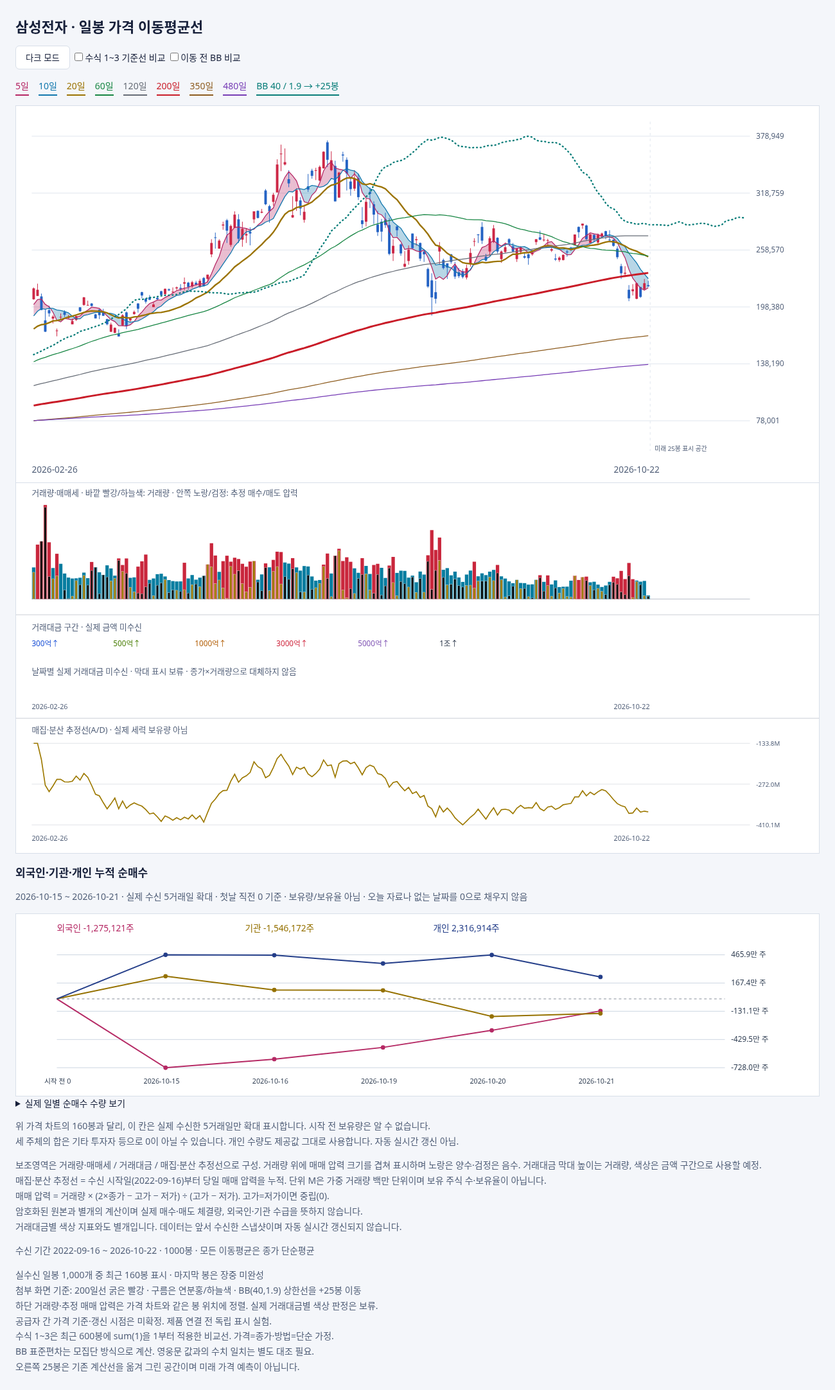
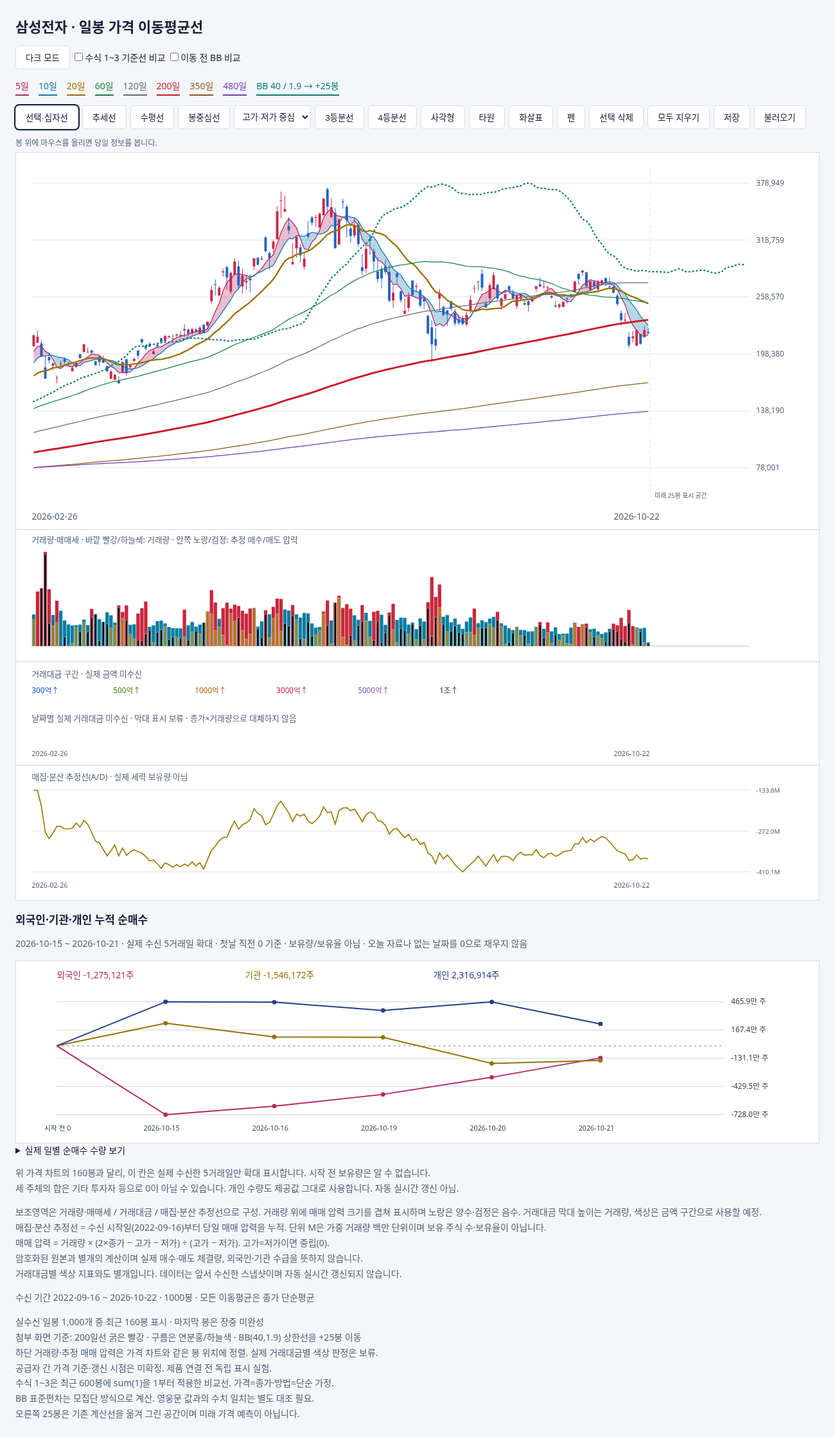
feat(chart): 실험 차트 십자선과 그리기 도구 추가

diff --git a/docs/design/desktop-chart-proof/2026-10-22/chart-tools.js b/docs/design/desktop-chart-proof/2026-10-22/chart-tools.js
@@ -1,0 +1,64 @@
+// Drawing anchors use trading dates and prices, never screenshot pixels.
+const toolSvg=document.getElementById('chart');
+const ns='http://www.w3.org/2000/svg';
+const drawingKey='stockbook-chart-proof:005930:drawings:v1';
+const drawingTypes=['trend','horizontal','midpoint','thirds','quarters','rectangle','ellipse','arrow','pen'];
+let drawingMode='view',drawings=[],pendingAnchor=null,selectedDrawing=null,nextDrawingId=1,penStroke=null;
+const toolMessage=document.getElementById('toolMessage');
+const candleTip=document.getElementById('candleTip');
+function svgNode(tag,attrs={},text){const n=document.createElementNS(ns,tag);for(const [k,v] of Object.entries(attrs))n.setAttribute(k,String(v));if(text!==undefined)n.textContent=text;return n;}
+function pointInSvg(event){return new DOMPoint(event.clientX,event.clientY).matrixTransform(toolSvg.getScreenCTM().inverse());}
+function toolModel(){return window.chartModel;}
+function anchorX(anchor,m){const i=m.rows.findIndex(r=>r.date===anchor.date);return i<0?null:m.x(i+anchor.offset);}
+function anchorFromPoint(p,m){const i=Math.max(0,Math.min(m.rows.length+24,Math.round((p.x-25)/m.step-.5))),actual=Math.min(i,m.rows.length-1);return {date:m.rows[actual].date,offset:i-actual,price:m.priceForY(p.y)};}
+function setDrawingMode(mode){drawingMode=mode;pendingAnchor=null;for(const b of document.querySelectorAll('[data-chart-tool]'))b.setAttribute('aria-pressed',String(b.dataset.chartTool===mode));toolSvg.style.cursor='crosshair';toolMessage.textContent={view:'봉 위에 마우스를 올리면 당일 정보를 봅니다.',trend:'추세선: 시작점과 끝점을 차례로 누르세요.',horizontal:'수평선: 원하는 가격 위치를 누르세요.',midpoint:'봉중심선: 봉을 누르면 선택한 기준의 중앙 가격에 선을 그립니다.',thirds:'3등분선: 나눌 가격 범위의 두 끝을 누르세요.',quarters:'4등분선: 나눌 가격 범위의 두 끝을 누르세요.',rectangle:'사각형: 두 모서리를 차례로 누르세요.',ellipse:'타원: 범위의 두 모서리를 차례로 누르세요.',arrow:'화살표: 시작점과 끝점을 차례로 누르세요.',pen:'펜: 마우스를 누른 채 그리세요.'}[mode];renderDrawings();}
+function drawOne(layer,d,preview=false){const m=toolModel(),a=d.points[0],b=d.points[1],xa=anchorX(a,m),xb=b?anchorX(b,m):null;if(xa===null||b&&xb===null)return;const light=document.body.classList.contains('light'),color=selectedDrawing===d.id?(light?'#975000':'#ffe275'):(light?'#965023':'#f5b16e');
+ const group=svgNode('g',{'data-drawing-id':d.id,class:preview?'drawing-preview':'drawing'});if(preview)group.setAttribute('pointer-events','none');const levels=[];
+ if(['rectangle','ellipse','pen','arrow'].includes(d.type)){
+ const attrs={fill:'none',stroke:color,'stroke-width':2};let visible;
+ if(d.type==='pen'){const points=d.points.map(p=>[anchorX(p,m),m.y(p.price)]);if(points.some(p=>p[0]===null))return;visible=svgNode('polyline',{...attrs,points:points.map(p=>p.join(',')).join(' ')});}
+ else if(b){const ya=m.y(a.price),yb=m.y(b.price),left=Math.min(xa,xb),top=Math.min(ya,yb),width=Math.max(1,Math.abs(xb-xa)),height=Math.max(1,Math.abs(yb-ya));
+ if(d.type==='rectangle')visible=svgNode('rect',{...attrs,x:left,y:top,width,height});
+ if(d.type==='ellipse')visible=svgNode('ellipse',{...attrs,cx:left+width/2,cy:top+height/2,rx:width/2,ry:height/2});
+ if(d.type==='arrow'){visible=svgNode('line',{...attrs,x1:xa,y1:ya,x2:xb,y2:yb});const angle=Math.atan2(yb-ya,xb-xa),r=11;group.append(svgNode('path',{d:`M${xb-r*Math.cos(angle-.45)},${yb-r*Math.sin(angle-.45)} L${xb},${yb} L${xb-r*Math.cos(angle+.45)},${yb-r*Math.sin(angle+.45)}`,...attrs,'pointer-events':'none'}));}}
+ if(visible){group.append(visible);if(!preview){const hit=visible.cloneNode();hit.setAttribute('stroke','transparent');hit.setAttribute('stroke-width','12');hit.setAttribute('pointer-events','stroke');hit.setAttribute('data-drawing-id',d.id);hit.classList.add('drawing-hit');group.append(hit);}}
+ layer.append(group);return;
+ }
+ if(d.type==='trend'&&b)levels.push([xa,m.y(a.price),xb,m.y(b.price),'']);
+ else if(['horizontal','midpoint'].includes(d.type))levels.push([25,m.y(a.price),1165,m.y(a.price),(d.type==='midpoint'?`${a.date} ${d.centerKind==='body'?'몸통':'고저'} 중심 · `:'')+Math.round(a.price).toLocaleString()]);
+ else if(b){const parts=d.type==='thirds'?3:4;for(let i=0;i<=parts;i++){const price=a.price+(b.price-a.price)*i/parts;levels.push([25,m.y(price),1165,m.y(price),`${i}/${parts} · ${Math.round(price).toLocaleString()}`]);}}
+ for(const [x1,y1,x2,y2,label] of levels){group.append(svgNode('line',{x1,y1,x2,y2,stroke:color,'stroke-width':selectedDrawing===d.id?2.5:1.5,'stroke-dasharray':preview?'4 4':'none','pointer-events':'none'}));if(!preview)group.append(svgNode('line',{x1,y1,x2,y2,stroke:'transparent','stroke-width':12,'pointer-events':'stroke','data-drawing-id':d.id,class:'drawing-hit'}));if(label)group.append(svgNode('text',{x:35,y:y1-5,fill:color,'font-size':11,'pointer-events':'none'},label));}
+ if(selectedDrawing===d.id)for(const p of d.points)group.append(svgNode('circle',{cx:anchorX(p,m),cy:m.y(p.price),r:4,fill:color,'pointer-events':'none'}));
+ layer.append(group);
+}
+function renderDrawings(previewAnchor){if(!toolModel())return;toolSvg.querySelector('.annotation-layer')?.remove();const layer=svgNode('g',{class:'annotation-layer'});for(const d of drawings)drawOne(layer,d);if(penStroke&&penStroke.length>1)drawOne(layer,{id:-2,type:'pen',points:penStroke},true);if(pendingAnchor&&previewAnchor)drawOne(layer,{id:-1,type:drawingMode,points:[pendingAnchor,previewAnchor]},true);toolSvg.append(layer);}
+function hideCrosshair(){for(const svg of [toolSvg,document.getElementById('pressureChart'),document.getElementById('investorChart')])svg.querySelector('.cursor-layer')?.remove();candleTip.hidden=true;}
+function cursorLine(svg,x,bottom,color){const group=svgNode('g',{class:'cursor-layer','pointer-events':'none'});group.append(svgNode('line',{x1:x,x2:x,y1:0,y2:bottom,stroke:color,'stroke-width':1,'stroke-dasharray':'3 4'}));svg.append(group);return group;}
+function showCrosshair(p,event){hideCrosshair();const m=toolModel();if(!m||p.x<25||p.x>1165||p.y<30||p.y>520)return;const index=Math.max(0,Math.min(m.rows.length+24,Math.round((p.x-25)/m.step-.5))),xx=m.x(index),price=m.priceForY(p.y),color=document.body.classList.contains('light')?'#5b6270':'#c3cad6',label=index<m.rows.length?m.rows[index].date:`미래 +${index-m.rows.length+1}봉`;
+ const group=cursorLine(toolSvg,xx,560,color);group.append(svgNode('line',{x1:25,x2:1165,y1:p.y,y2:p.y,stroke:color,'stroke-dasharray':'3 4'}),svgNode('rect',{x:1170,y:p.y-11,width:108,height:22,fill:'var(--text)'}),svgNode('text',{x:1176,y:p.y+4,fill:'var(--bg)','font-size':12},Math.round(price).toLocaleString()),svgNode('rect',{x:Math.min(1050,Math.max(25,xx-50)),y:563,width:112,height:23,fill:'var(--text)'}),svgNode('text',{x:Math.min(1056,Math.max(31,xx-44)),y:579,fill:'var(--bg)','font-size':11},label));
+ cursorLine(document.getElementById('pressureChart'),xx,590,color);
+ if(index>=m.rows.length){candleTip.hidden=true;return;}
+ const row=m.rows[index],global=m.offset+index,previous=m.all[global-1]?.close,change=previous?((row.close/previous-1)*100):null;
+ const lines=[`${row.date} · 삼성전자`,...['open','high','low','close'].map((k,i)=>`${['시가','고가','저가','종가'][i]}  ${row[k].toLocaleString()}원`),`전일 종가 대비  ${change===null?'자료 없음':(change>=0?'+':'')+change.toFixed(2)+'%'}`,`거래량  ${row.volume.toLocaleString()}주`,'거래대금  자료 미수신',...m.averages.map((a,i)=>`${m.periods[i]}일선  ${a[index]===null?'자료 없음':a[index].toLocaleString('ko-KR',{maximumFractionDigits:2})}`)];
+ if(global===m.all.length-1)lines.push('장중 미완성 봉 · 저장된 스냅샷');candleTip.textContent=lines.join('\n');candleTip.hidden=false;
+ candleTip.style.left=Math.max(8,Math.min(window.innerWidth-candleTip.offsetWidth-8,event.clientX+18))+'px';candleTip.style.top=Math.max(8,Math.min(window.innerHeight-candleTip.offsetHeight-8,event.clientY+18))+'px';
+ const dates=window.investorEvidence?.dates||[],di=dates.indexOf(row.date);if(di>=0)cursorLine(document.getElementById('investorChart'),65+(di+1)*1040/(dates.length+1),255,color);
+}
+function restoreChartInteraction(){hideCrosshair();renderDrawings();}
+toolSvg.addEventListener('pointermove',event=>{const m=toolModel();if(!m)return;const p=pointInSvg(event);if(penStroke){if(p.x>=25&&p.x<=1165&&p.y>=30&&p.y<=520&&penStroke.length<500){penStroke.push(anchorFromPoint(p,m));renderDrawings();}return;}showCrosshair(p,event);if(pendingAnchor&&p.x>=25&&p.x<=1165&&p.y>=30&&p.y<=520){renderDrawings(anchorFromPoint(p,m));}});
+toolSvg.addEventListener('pointerleave',()=>{hideCrosshair();renderDrawings();});
+toolSvg.addEventListener('click',event=>{const m=toolModel();if(!m)return;const p=pointInSvg(event);if(p.x<25||p.x>1165||p.y<30||p.y>520)return;if(drawingMode==='view'){selectedDrawing=Number(event.target.closest('[data-drawing-id]')?.dataset.drawingId)||null;renderDrawings();return;}
+ if(drawingMode==='pen')return;let anchor=anchorFromPoint(p,m);if(drawingMode==='midpoint'){if(anchor.offset){toolMessage.textContent='실제 봉을 선택하세요.';return;}const row=m.rows.find(r=>r.date===anchor.date),kind=document.getElementById('centerKind').value;anchor={...anchor,price:kind==='body'?(row.open+row.close)/2:(row.high+row.low)/2};}if(!['horizontal','midpoint'].includes(drawingMode)&&!pendingAnchor){pendingAnchor=anchor;toolMessage.textContent='두 번째 점을 누르세요. 취소하려면 Esc.';return;}
+ if(drawings.length>=200){toolMessage.textContent='선은 200개까지 저장할 수 있습니다.';pendingAnchor=null;return;}
+ const points=['horizontal','midpoint'].includes(drawingMode)?[anchor]:[pendingAnchor,anchor];if(points.length===2&&(drawingMode==='trend'?points[0].date===points[1].date&&points[0].offset===points[1].offset:Math.abs(points[0].price-points[1].price)<.01)){toolMessage.textContent='서로 다른 두 위치를 선택하세요.';return;}
+ drawings.push({id:nextDrawingId++,type:drawingMode,points,...(drawingMode==='midpoint'?{centerKind:document.getElementById('centerKind').value}:{})});selectedDrawing=drawings.at(-1).id;setDrawingMode('view');toolMessage.textContent='선을 추가했습니다. 선택해 삭제하거나 저장할 수 있습니다.';});
+for(const button of document.querySelectorAll('[data-chart-tool]'))button.onclick=()=>setDrawingMode(button.dataset.chartTool);
+document.getElementById('drawingDelete').onclick=()=>{if(selectedDrawing===null){toolMessage.textContent='삭제할 선을 먼저 선택하세요.';return;}drawings=drawings.filter(d=>d.id!==selectedDrawing);selectedDrawing=null;renderDrawings();};
+document.getElementById('drawingClear').onclick=()=>{if(!drawings.length)return;if(!window.confirm('그린 선을 모두 지울까요? 저장된 선은 저장 버튼을 누르기 전까지 유지됩니다.'))return;drawings=[];selectedDrawing=null;pendingAnchor=null;renderDrawings();};
+document.getElementById('drawingSave').onclick=()=>{try{localStorage.setItem(drawingKey,JSON.stringify({version:1,symbol:'005930',drawings}));toolMessage.textContent='이 브라우저에 저장했습니다.';}catch{toolMessage.textContent='저장하지 못했습니다. 브라우저 저장 공간을 확인하세요.';}};
+document.getElementById('drawingLoad').onclick=()=>{try{const raw=localStorage.getItem(drawingKey);if(!raw){toolMessage.textContent='저장된 선이 없습니다.';return;}const saved=JSON.parse(raw);if(saved.version!==1||saved.symbol!=='005930'||!Array.isArray(saved.drawings)||saved.drawings.length>200)throw Error();const candidate=saved.drawings.map((d,i)=>{if(!drawingTypes.includes(d.type)||!Array.isArray(d.points)||(d.type==='pen'?(d.points.length<2||d.points.length>500):d.points.length!==(['horizontal','midpoint'].includes(d.type)?1:2)))throw Error();const points=d.points.map(a=>{if(!a||!toolModel().rows.some(r=>r.date===a.date)||!Number.isInteger(a.offset)||a.offset<0||a.offset>25||typeof a.price!=='number'||!Number.isFinite(a.price)||a.price<=0)throw Error();return {date:a.date,offset:a.offset,price:a.price};});if(d.type==='midpoint'&&!['range','body'].includes(d.centerKind))throw Error();return {id:i+1,type:d.type,points,...(d.type==='midpoint'?{centerKind:d.centerKind}:{})};});drawings=candidate;nextDrawingId=drawings.length+1;selectedDrawing=null;setDrawingMode('view');toolMessage.textContent='저장한 선을 불러왔습니다.';}catch{toolMessage.textContent='저장 자료를 읽지 못했습니다. 현재 선은 유지합니다.';}};
+document.addEventListener('keydown',e=>{if(e.key==='Escape'){penStroke=null;setDrawingMode('view');hideCrosshair();}});
+toolSvg.addEventListener('pointerdown',event=>{if(drawingMode!=='pen'||event.button!==0||!toolModel()||drawings.length>=200)return;const p=pointInSvg(event);if(p.x<25||p.x>1165||p.y<30||p.y>520)return;penStroke=[anchorFromPoint(p,toolModel())];hideCrosshair();toolSvg.setPointerCapture(event.pointerId);event.preventDefault();});
+ toolSvg.addEventListener('pointerup',event=>{if(!penStroke)return;const points=penStroke;penStroke=null;if(points.length>1){drawings.push({id:nextDrawingId++,type:'pen',points});selectedDrawing=drawings.at(-1).id;}if(toolSvg.hasPointerCapture(event.pointerId))toolSvg.releasePointerCapture(event.pointerId);setDrawingMode('view');});
+ toolSvg.addEventListener('pointercancel',()=>{penStroke=null;setDrawingMode('view');});
+ window.addEventListener('resize',hideCrosshair);window.addEventListener('scroll',hideCrosshair,{passive:true});setDrawingMode('view');

diff --git a/docs/design/desktop-chart-proof/2026-10-22/styled-chart.html b/docs/design/desktop-chart-proof/2026-10-22/styled-chart.html
@@ -1,3 +1,3 @@
 <!doctype html><html lang="ko"><meta charset="utf-8"><title>일봉 지표 표시 실험</title><style>
-:root{color-scheme:dark;--bg:#10141d;--panel:#161d29;--text:#e8edf5;--muted:#a4adbd;--border:#303a4b}body.light{color-scheme:light;--bg:#f4f6fa;--panel:#fff;--text:#17203a;--muted:#526079;--border:#d8dfe9}body{background:var(--bg);color:var(--text);font:14px system-ui;margin:24px}h1{font-size:22px}button{padding:8px 15px;background:var(--panel);color:var(--text);border:1px solid var(--border);border-radius:6px;cursor:pointer}svg{display:block;width:100%;box-sizing:border-box;background:var(--panel);border:1px solid var(--border)}#pressureChart{border-top:0}#legend{display:flex;flex-wrap:wrap;gap:15px;margin:15px 0}.note{color:var(--muted);line-height:1.7}#legend span{border-bottom:2px solid;padding-bottom:4px}table{width:100%;border-collapse:collapse;font-variant-numeric:tabular-nums}td,th{padding:8px;border-bottom:1px solid var(--border);text-align:right}td:first-child,th:first-child{text-align:left}h2{font-size:17px;margin:16px 0 8px}</style>
-<h1>삼성전자 · 일봉 가격 이동평균선</h1><button id="theme">라이트 모드</button> <label><input type="checkbox" id="refs">수식 1~3 기준선 비교</label> <label><input type="checkbox" id="original">이동 전 BB 비교</label><div id="legend"></div><svg id="chart" viewBox="0 0 1280 600" aria-label="삼성전자 일봉과 가격 이동평균선"></svg><svg id="pressureChart" viewBox="0 0 1280 590" aria-label="거래량과 OHLCV 기반 매매 압력 추정"></svg><section id="investorPanel"><h2>외국인·기관·개인 누적 순매수</h2><p id="investorInfo" class="note"></p><svg id="investorChart" viewBox="0 0 1280 290" aria-label="실제 투자자별 누적 순매수 5거래일 확대"></svg><details><summary>실제 일별 순매수 수량 보기</summary><table id="investorTable"></table></details><p class="note">위 가격 차트의 160봉과 달리, 이 칸은 실제 수신한 5거래일만 확대 표시합니다. 시작 전 보유량은 알 수 없습니다.<br>세 주체의 합은 기타 투자자 등으로 0이 아닐 수 있습니다. 개인 수량도 제공값 그대로 사용합니다. 자동 실시간 갱신 아님.</p></section><p class="note">보조영역은 거래량·매매세 / 거래대금 / 매집·분산 추정선으로 구성. 거래량 위에 매매 압력 크기를 겹쳐 표시하며 노랑은 양수·검정은 음수. 거래대금 막대 높이는 거래량, 색상은 금액 구간으로 사용할 예정.<br>매집·분산 추정선 = 수신 시작일(2022-09-16)부터 당일 매매 압력을 누적. 단위 M은 가중 거래량 백만 단위이며 보유 주식 수·보유율이 아닙니다.<br>매매 압력 = 거래량 × (2×종가 − 고가 − 저가) ÷ (고가 − 저가). 고가=저가이면 중립(0).<br>암호화된 원본과 별개의 계산이며 실제 매수·매도 체결량, 외국인·기관 수급을 뜻하지 않습니다.<br>거래대금별 색상 지표와도 별개입니다. 데이터는 앞서 수신한 스냅샷이며 자동 실시간 갱신되지 않습니다.</p><p id="period" class="note"></p><p class="note">실수신 일봉 1,000개 중 최근 160봉 표시 · 마지막 봉은 장중 미완성<br>첨부 화면 기준: 200일선 굵은 빨강 · 구름은 연분홍/하늘색 · BB(40,1.9) 상한선을 +25봉 이동<br>하단 거래량·추정 매매 압력은 가격 차트와 같은 봉 위치에 정렬. 실제 거래대금별 색상 판정은 보류.<br>공급자 간 가격 기준·갱신 시점은 미확정. 제품 연결 전 독립 표시 실험.<br>수식 1~3은 최근 600봉에 sum(1)을 1부터 적용한 비교선. 가격=종가·방법=단순 가정.<br>BB 표준편차는 모집단 방식으로 계산. 영웅문 값과의 수치 일치는 별도 대조 필요.<br>오른쪽 25봉은 기존 계산선을 옮겨 그린 공간이며 미래 가격 예측이 아닙니다.</p><script src="investors.js"></script><script src="investor-panel.js"></script><script src="pressure.js"></script><script src="styled-chart.js"></script></html>
+:root{color-scheme:dark;--bg:#10141d;--panel:#161d29;--text:#e8edf5;--muted:#a4adbd;--border:#303a4b}body.light{color-scheme:light;--bg:#f4f6fa;--panel:#fff;--text:#17203a;--muted:#526079;--border:#d8dfe9}body{background:var(--bg);color:var(--text);font:14px system-ui;margin:24px}h1{font-size:22px}button{padding:8px 15px;background:var(--panel);color:var(--text);border:1px solid var(--border);border-radius:6px;cursor:pointer}svg{display:block;width:100%;box-sizing:border-box;background:var(--panel);border:1px solid var(--border)}#pressureChart{border-top:0}#legend{display:flex;flex-wrap:wrap;gap:15px;margin:15px 0}.note{color:var(--muted);line-height:1.7}#legend span{border-bottom:2px solid;padding-bottom:4px}table{width:100%;border-collapse:collapse;font-variant-numeric:tabular-nums}td,th{padding:8px;border-bottom:1px solid var(--border);text-align:right}td:first-child,th:first-child{text-align:left}h2{font-size:17px;margin:16px 0 8px}#chart{touch-action:none}.chart-toolbar{display:flex;flex-wrap:wrap;gap:6px;margin:12px 0}.chart-toolbar select{background:var(--panel);color:var(--text);border:1px solid var(--border);border-radius:6px;padding:8px}.chart-toolbar button[aria-pressed="true"]{outline:2px solid var(--text)}.chart-tip{position:fixed;z-index:100;background:var(--panel);color:var(--text);border:1px solid var(--border);padding:10px 12px;border-radius:6px;white-space:pre;pointer-events:none;font-size:12px;max-height:90vh;overflow:hidden;box-shadow:0 6px 20px #0004}#toolMessage{font-size:12px;color:var(--muted);min-height:18px;margin:6px 0}</style>
+<h1>삼성전자 · 일봉 가격 이동평균선</h1><button id="theme">라이트 모드</button> <label><input type="checkbox" id="refs">수식 1~3 기준선 비교</label> <label><input type="checkbox" id="original">이동 전 BB 비교</label><div id="legend"></div><div class="chart-toolbar" role="group" aria-label="차트 그리기 도구"><button type="button" data-chart-tool="view" aria-pressed="true">선택·십자선</button><button type="button" data-chart-tool="trend">추세선</button><button type="button" data-chart-tool="horizontal">수평선</button><button type="button" data-chart-tool="midpoint">봉중심선</button><select id="centerKind" aria-label="봉중심선 기준"><option value="range">고가·저가 중심</option><option value="body">시가·종가 중심</option></select><button type="button" data-chart-tool="thirds">3등분선</button><button type="button" data-chart-tool="quarters">4등분선</button><button type="button" data-chart-tool="rectangle">사각형</button><button type="button" data-chart-tool="ellipse">타원</button><button type="button" data-chart-tool="arrow">화살표</button><button type="button" data-chart-tool="pen">펜</button><button type="button" id="drawingDelete">선택 삭제</button><button type="button" id="drawingClear">모두 지우기</button><button type="button" id="drawingSave">저장</button><button type="button" id="drawingLoad">불러오기</button></div><p id="toolMessage" role="status"></p><div id="candleTip" class="chart-tip" role="tooltip" hidden></div><svg id="chart" viewBox="0 0 1280 600" aria-label="삼성전자 일봉과 가격 이동평균선"></svg><svg id="pressureChart" viewBox="0 0 1280 590" aria-label="거래량과 OHLCV 기반 매매 압력 추정"></svg><section id="investorPanel"><h2>외국인·기관·개인 누적 순매수</h2><p id="investorInfo" class="note"></p><svg id="investorChart" viewBox="0 0 1280 290" aria-label="실제 투자자별 누적 순매수 5거래일 확대"></svg><details><summary>실제 일별 순매수 수량 보기</summary><table id="investorTable"></table></details><p class="note">위 가격 차트의 160봉과 달리, 이 칸은 실제 수신한 5거래일만 확대 표시합니다. 시작 전 보유량은 알 수 없습니다.<br>세 주체의 합은 기타 투자자 등으로 0이 아닐 수 있습니다. 개인 수량도 제공값 그대로 사용합니다. 자동 실시간 갱신 아님.</p></section><p class="note">보조영역은 거래량·매매세 / 거래대금 / 매집·분산 추정선으로 구성. 거래량 위에 매매 압력 크기를 겹쳐 표시하며 노랑은 양수·검정은 음수. 거래대금 막대 높이는 거래량, 색상은 금액 구간으로 사용할 예정.<br>매집·분산 추정선 = 수신 시작일(2022-09-16)부터 당일 매매 압력을 누적. 단위 M은 가중 거래량 백만 단위이며 보유 주식 수·보유율이 아닙니다.<br>매매 압력 = 거래량 × (2×종가 − 고가 − 저가) ÷ (고가 − 저가). 고가=저가이면 중립(0).<br>암호화된 원본과 별개의 계산이며 실제 매수·매도 체결량, 외국인·기관 수급을 뜻하지 않습니다.<br>거래대금별 색상 지표와도 별개입니다. 데이터는 앞서 수신한 스냅샷이며 자동 실시간 갱신되지 않습니다.</p><p id="period" class="note"></p><p class="note">실수신 일봉 1,000개 중 최근 160봉 표시 · 마지막 봉은 장중 미완성<br>첨부 화면 기준: 200일선 굵은 빨강 · 구름은 연분홍/하늘색 · BB(40,1.9) 상한선을 +25봉 이동<br>하단 거래량·추정 매매 압력은 가격 차트와 같은 봉 위치에 정렬. 실제 거래대금별 색상 판정은 보류.<br>공급자 간 가격 기준·갱신 시점은 미확정. 제품 연결 전 독립 표시 실험.<br>수식 1~3은 최근 600봉에 sum(1)을 1부터 적용한 비교선. 가격=종가·방법=단순 가정.<br>BB 표준편차는 모집단 방식으로 계산. 영웅문 값과의 수치 일치는 별도 대조 필요.<br>오른쪽 25봉은 기존 계산선을 옮겨 그린 공간이며 미래 가격 예측이 아닙니다.</p><script src="investors.js"></script><script src="investor-panel.js"></script><script src="pressure.js"></script><script src="chart-tools.js"></script><script src="styled-chart.js"></script></html>

diff --git a/docs/design/desktop-chart-proof/2026-10-22/styled-chart.js b/docs/design/desktop-chart-proof/2026-10-22/styled-chart.js
@@ -28,6 +28,8 @@ function render(all){
  svg+=`<text x="25" y="585" fill="${text}">${rows[0].date}</text><text x="${x(rows.length-1)-55}" y="585" fill="${text}">${rows.at(-1).date}</text>`;
  document.getElementById('chart').innerHTML=svg;document.getElementById('legend').innerHTML=periods.map((n,i)=>`<span style="color:${colors[i]};border-color:${colors[i]}">${n}일</span>`).join('')+`<span style="color:${mint};border-color:${mint}">BB 40 / 1.9 → +25봉</span>`;document.getElementById('period').textContent=`수신 기간 ${all[0].date} ~ ${all.at(-1).date} · ${all.length}봉 · 모든 이동평균은 종가 단순평균`;
  renderPressure(all,isLight);
+ window.chartModel={all,rows,offset,x,y,step,periods,averages:avgs,priceForY:v=>hi+pad-(v-30)/490*(hi-lo+2*pad)};
+ restoreChartInteraction();
  window.chartEvidence={count:all.length,displayed:rows.length,periods,cloudCount,bbShift:shift,bbPeriod:40,bbMultiplier:1.9,referenceBaseCount:referenceBase.length,references,lastAverages:avgs.map((a,i)=>({period:periods[i],value:a.at(-1)}))};window.renderDone=true;
 }
 fetch('long-candles.json').then(r=>r.json()).then(all=>{render(all);for(const id of ['refs','original'])document.getElementById(id).onchange=()=>render(all);document.getElementById('theme').onclick=()=>{document.body.classList.toggle('light');document.getElementById('theme').textContent=document.body.classList.contains('light')?'다크 모드':'라이트 모드';render(all);};});

diff --git a/docs/design/desktop-chart-proof/2026-10-22/README.md b/docs/design/desktop-chart-proof/2026-10-22/README.md
@@ -15,6 +15,12 @@
 
 압축을 푼 폴더(stockbook-chart-proof)에서 `python3 -m http.server 8000 --bind 127.0.0.1`을 실행하고 로컬 브라우저로 styled-chart.html을 연다. HTML을 파일로 직접 여는 방식은 JSON 읽기가 차단될 수 있다. 실행 중 외부 데이터 공급자에 접속하지 않고 동봉된 JSON을 읽는다. 이 주소는 내부 실행용이며 외부 공유 링크가 아니다.
 
+## 십자선·그리기 도구
+
+가격 차트에 마우스를 올리면 십자선과 해당 날짜의 시가·고가·저가·종가·거래량·이동평균값을 봅니다. 실제 금액이 없는 거래대금은 미수신으로 표시합니다. 추세선·수평선·봉중심선·3등분선·4등분선·사각형·타원·화살표·펜을 사용할 수 있습니다. 저장·불러오기는 현재 브라우저의 선만 관리하며, 서버 동기화가 아닙니다. 봉중심선은 고가·저가 중간값이 기본이며 시가·종가 중간값도 선택할 수 있습니다.
+
+추천 검토 중인 RSI(14), ATR(14), OBV, 일반 MACD(12·26·9)는 아직 추가하지 않았습니다. [추가 지표 제안](INDICATOR-PROPOSALS.md)을 먼저 검토합니다.
+
 ## 자동 검증
 
 Node.js가 설치된 환경에서:
@@ -23,6 +29,7 @@ Node.js가 설치된 환경에서:
 npm install --ignore-scripts
 npx playwright install chromium
 npm run verify
+node verify-tools.cjs
 ```
 
 이미 시스템 Chromium을 사용하는 환경이면 `CHART_CHROMIUM_PATH=/usr/bin/chromium npm run verify`로 실행할 수 있다. Playwright 브라우저 다운로드에는 해당 CDN 접속 허용이 필요하다. 보존된 결과는 Node 24 / Playwright 1.56.0 / Linux 시스템 Chromium 검증이며 Windows Electron 검증이 아니다.

diff --git a/docs/design/desktop-chart-proof/2026-10-22/INDICATOR-PROPOSALS.md b/docs/design/desktop-chart-proof/2026-10-22/INDICATOR-PROPOSALS.md
@@ -1,0 +1,16 @@
+# 추가 지표 제안 — 적용 전 검토
+
+사용자가 선택하기 전에는 아래 지표를 자동 추가하지 않는다. 가격·이동평균·구름·BB, 거래량·추정 매매세, 실제 수급 비교의 기본 구성을 유지한다.
+
+| 후보 | 목적 | 필요한 데이터 | 제안 |
+|---|---|---|---|
+| RSI(14) | 최근 상승·하락 강도, 과매도 진입 신호 확인 | 종가 | 첫 번째 후보. 기간·기준선은 사용자 설정, 영웅문 RSI 평활 방식 대조 필요 |
+| ATR(14) | 하루 변동폭 파악, 추세선·손절 거리 판단 보조 | 고가·저가·전일 종가 | 두 번째 후보. 가격과 같은 단위이며 방향·매집을 판단하지 않음 |
+| OBV | 종가 상승/하락일의 거래량 누적 방향 | 종가·거래량 | 선택 후보. 실제 투자자 보유량이 아니며 기존 A/D와 중복될 수 있음 |
+| 일반 MACD(12,26,9) | 추세 변화와 모멘텀 비교 | 종가 | 선택 후보. 암호화된 BinaryWaveMACD와 동일하지 않음 |
+
+처음부터 모두 표시하지 않는다. RSI와 ATR을 우선 후보로 보고, 거래량 누적을 더 보고 싶을 때 OBV, 추세 비교가 필요할 때 일반 MACD를 선택하는 안이다.
+
+투자자별 누적 순매수는 실제 제공된 외국인·기관·개인 구분을 유지한다. OBV나 A/D를 실제 세력 보유량·보유율로 바꾸어 이름 붙이지 않는다. 새 지표만으로 특정 주체의 매집 완료나 미래 가격을 단정하지 않는다.
+
+VWAP은 봉별 가격평균에 거래량을 곱한 대용값으로 표시하지 않는다. 필요한 거래대금·체결 데이터와 기준 세션을 확인한 뒤 별도 검토한다.
